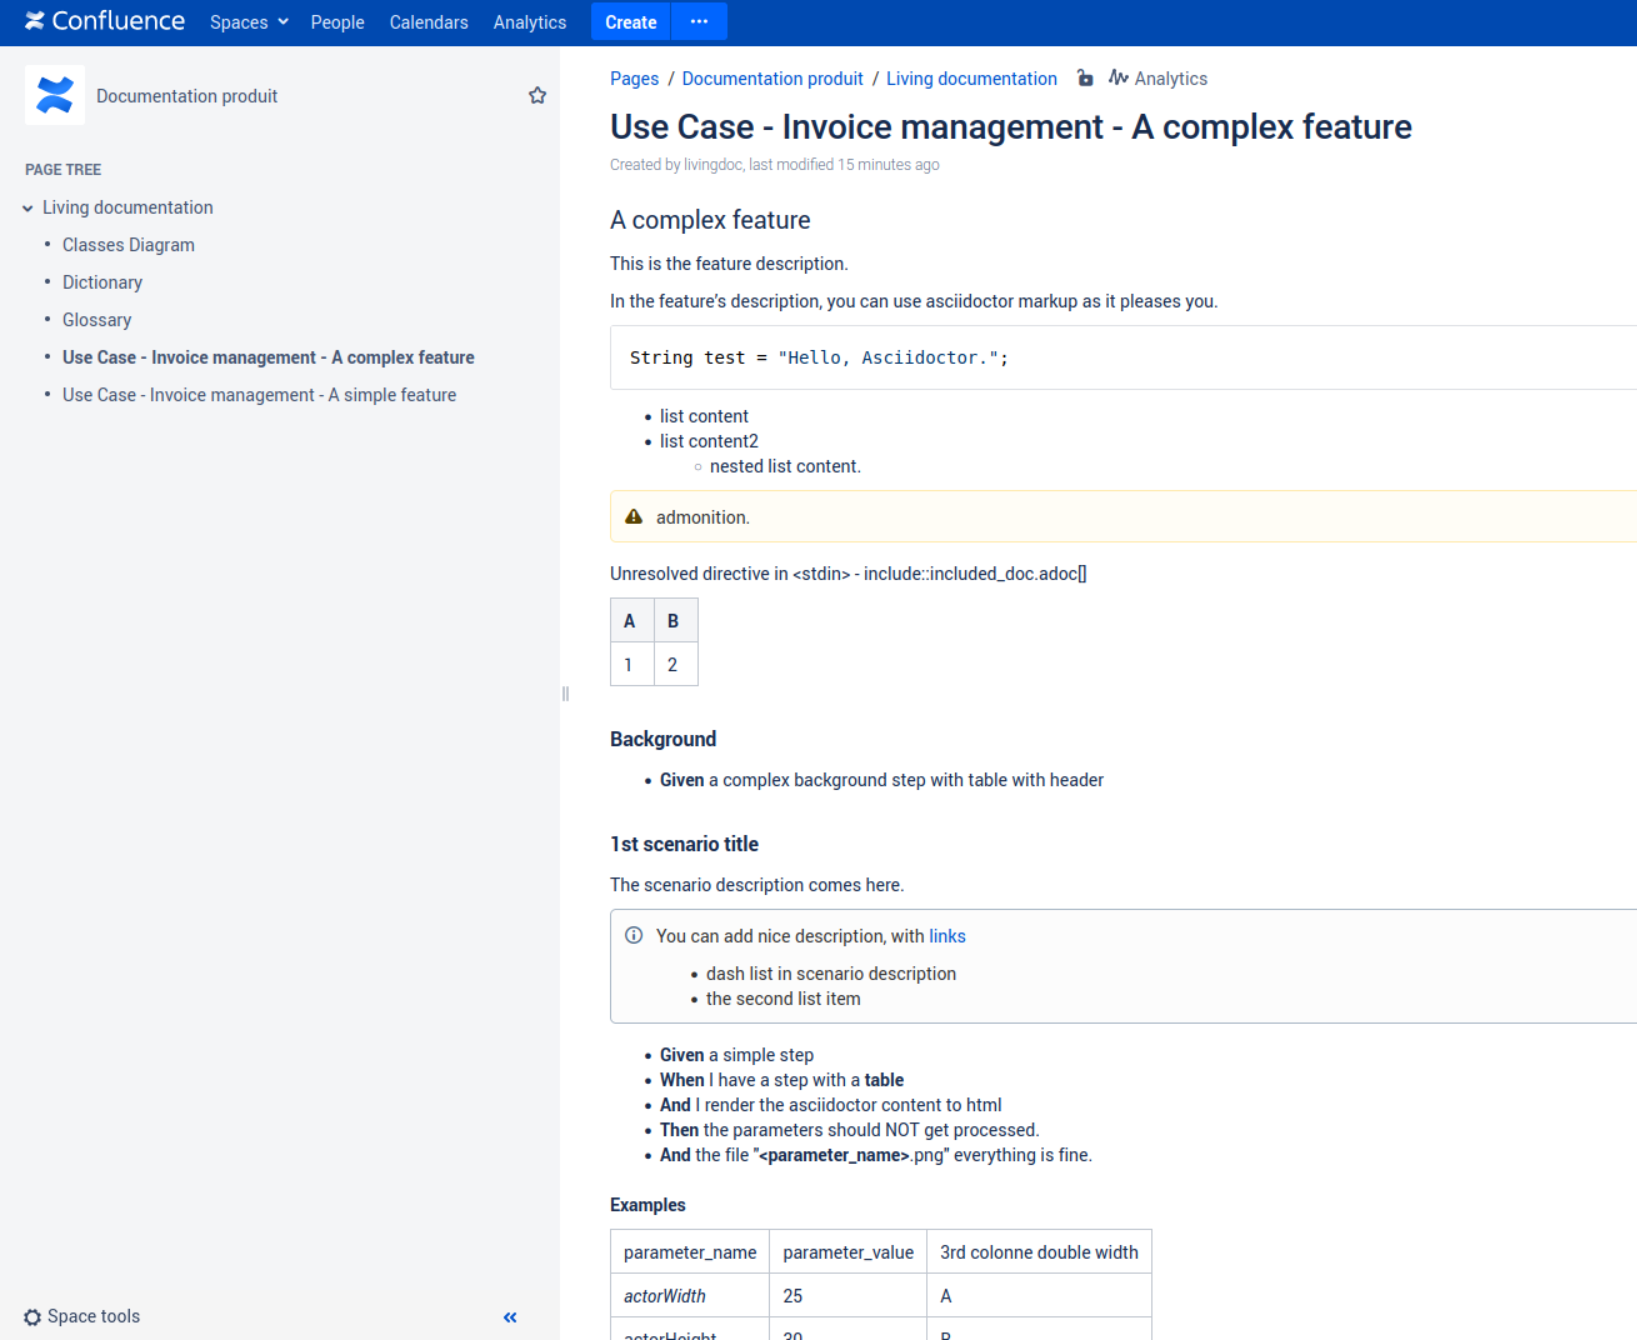
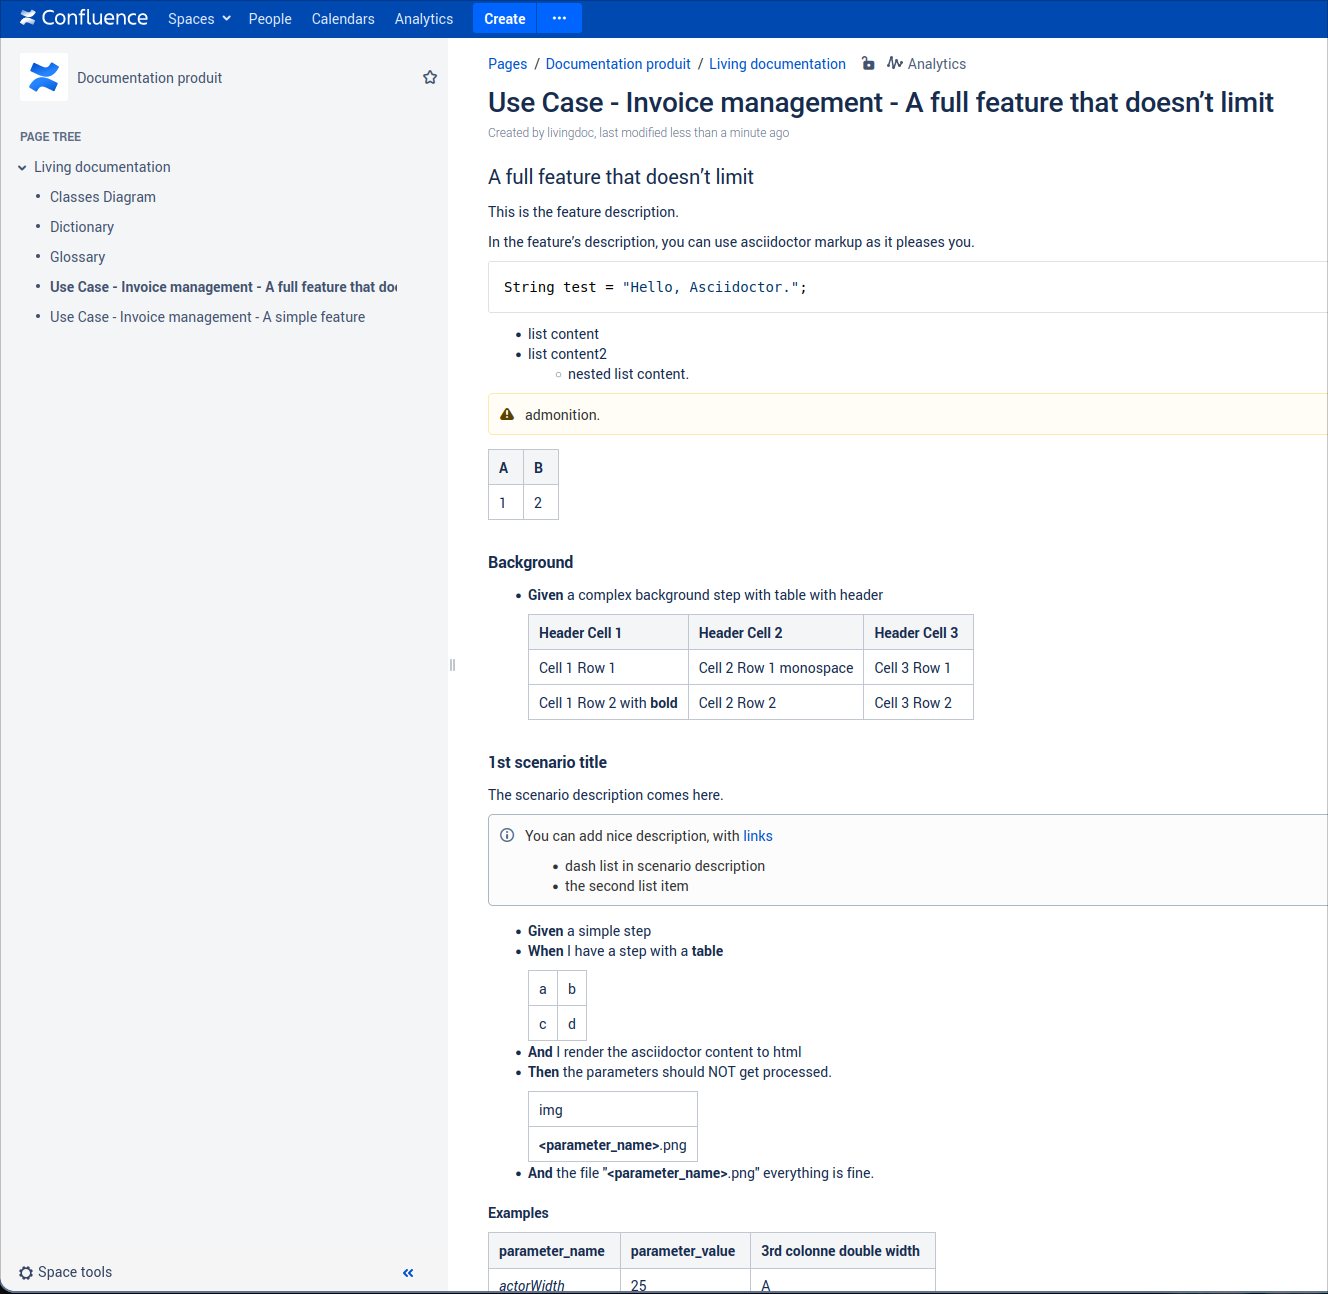
fix(gherkin): 🐛 full integration of the gherkin language (#110)
* fix(gherkin): 🐛 full integration of the gherkin language

* fix(gherkin): 🐛 full integration of the gherkin language

---------

diff --git a/livingdoc-maven-plugin/src/main/java/ch/ifocusit/livingdoc/plugin/baseMojo/AbstractAsciidoctorMojo.java b/livingdoc-maven-plugin/src/main/java/ch/ifocusit/livingdoc/plugin/baseMojo/AbstractAsciidoctorMojo.java
@@ -35,6 +35,7 @@ import org.asciidoctor.Asciidoctor;
 import org.asciidoctor.Attributes;
 import org.asciidoctor.Options;
 import org.asciidoctor.extension.JavaExtensionRegistry;
+import org.asciidoctor.extension.RubyExtensionRegistry;
 import org.springframework.core.io.support.PathMatchingResourcePatternResolver;
 
 import java.io.File;
@@ -97,7 +98,7 @@ public abstract class AbstractAsciidoctorMojo extends AbstractMojo {
         generatedDocsDirectory.mkdirs();
         File output = getOutput(outputFilename, Format.adoc);
         try {
-            // write adco file
+            // write adoc file
             asciiDocBuilder.writeToFile(generatedDocsDirectory.getAbsolutePath(), FilenameUtils.removeExtension(outputFilename), StandardCharsets.UTF_8);
             if (Format.html.equals(format)) {
                 // convert adoc to html
@@ -119,6 +120,11 @@ public abstract class AbstractAsciidoctorMojo extends AbstractMojo {
         JavaExtensionRegistry extensionRegistry = asciidoctor.javaExtensionRegistry();
         // override plantuml macro
         extensionRegistry.blockMacro(PLANTUML_MACRO_NAME, PlantumlMacroBlockProcessor.class);
+        // install gherkin macro
+        RubyExtensionRegistry rubyExtensionRegistry = asciidoctor.rubyExtensionRegistry();
+        rubyExtensionRegistry
+                .loadClass(this.getClass().getResourceAsStream("/com/github/domgold/doctools/asciidoctor/gherkin/gherkinblockmacro.rb"))
+                .blockMacro("gherkin", "GherkinBlockMacroProcessor");
         return asciidoctor;
     }
 

diff --git a/livingdoc-maven-plugin/src/main/java/ch/ifocusit/livingdoc/plugin/GherkinMojo.java b/livingdoc-maven-plugin/src/main/java/ch/ifocusit/livingdoc/plugin/GherkinMojo.java
@@ -84,7 +84,7 @@ public class GherkinMojo extends AbstractDocsGeneratorMojo {
     /**
      * Flag to indicate if generated asciidoc file must use the gherkin plugin
      */
-    @Parameter(property = "livingdoc.gherkin.gherkinAsciidocPlugin", defaultValue = "false")
+    @Parameter(property = "livingdoc.gherkin.gherkinAsciidocPlugin", defaultValue = "true")
     private boolean gherkinAsciidocPlugin;
 
     protected boolean somethingWasGenerated = false;
@@ -124,7 +124,6 @@ public class GherkinMojo extends AbstractDocsGeneratorMojo {
                 }
             }
             if (gherkinAsciidocPlugin) {
-                // TODO ne fonctionne pas ? si oui supprimer ? si oui comment customiser autrement ?
                 getDocBuilder(pageCount.get()).textLine(String.format("gherkin::%s[%s]", path, gherkinOptions));
             } else {
                 try {
